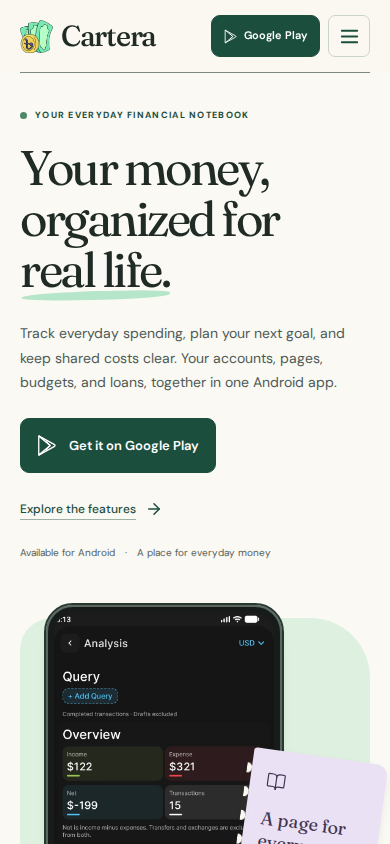
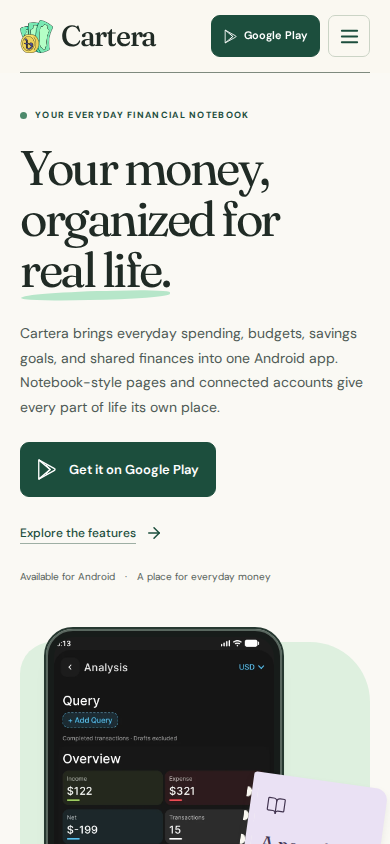
Record commit-first workflow and refresh copy previews

diff --git a/src/components/contact-form.tsx b/src/components/contact-form.tsx
@@ -44,7 +44,7 @@ export function ContactForm() {
         <textarea id="contact-message" name="message" placeholder="Questions, feedback, or a feature suggestion…" rows={4} required minLength={10} maxLength={2000} aria-describedby="contact-note contact-feedback" />
       </div>
       <button type="submit" className="play-store-link contact-submit"><Mail size={18} aria-hidden="true" /> Open email draft <ArrowUpRight size={17} aria-hidden="true" /></button>
-      <p className="form-note" id="contact-note">This form prepares a draft in your email app. Direct email: <a href={`mailto:${SUPPORT_EMAIL}`}>{SUPPORT_EMAIL}</a> directly.</p>
+      <p className="form-note" id="contact-note">This form prepares a draft in your email app. Direct email: <a href={`mailto:${SUPPORT_EMAIL}`}>{SUPPORT_EMAIL}</a>.</p>
       <p id="contact-feedback" className={`form-feedback ${error ? 'form-feedback--error' : ''}`} role="status" aria-live="polite">
         {error || (draftOpened ? 'Messages are sent through your email app. If no draft opened, direct email is available at the address above.' : '')}
       </p>

diff --git a/docs/website-revamp-handoff.md b/docs/website-revamp-handoff.md
@@ -4,6 +4,7 @@ The draft follows the approved ivory, forest-green, and notebook visual directio
 
 ## What changed
 
+- Marketing copy describes the product’s capabilities and benefits in declarative language. Feature sections and FAQs focus on the offering; action labels remain clear.
 - Rebuilt the homepage around everyday finances, books and pages, accounts, recording and analysis, budgets, savings goals, scheduled expenses, loans, and the three shared-finance jobs.
 - Added nearby access and connectivity notes for collaboration, cloud sync, voice/images, and the assistant. External AI processing is disclosed beside the assistant story.
 - Added responsive navigation, keyboard focus and skip navigation, expandable FAQs, reduced-motion support, and contact validation.

diff --git a/PRODUCT.md b/PRODUCT.md
@@ -96,3 +96,7 @@ Preserve /blogs, /privacy-policy, and /terms-and-conditions, or provide correct 
 The brief requires accessible heading order, sufficient contrast, visible keyboard focus, meaningful screenshot alternatives, comfortable touch targets, responsive layouts, and reduced-motion support. Keep the primary promise and download action clear on mobile.
 
 Optimize image weight and layout stability. Do not assume that the app’s source-language list proves complete translations or Arabic RTL readiness.
+
+## Development Workflow
+
+Commit the current work before making further changes, as requested by the owner. Use code-first implementation and retain Impeccable v4.3.1.
